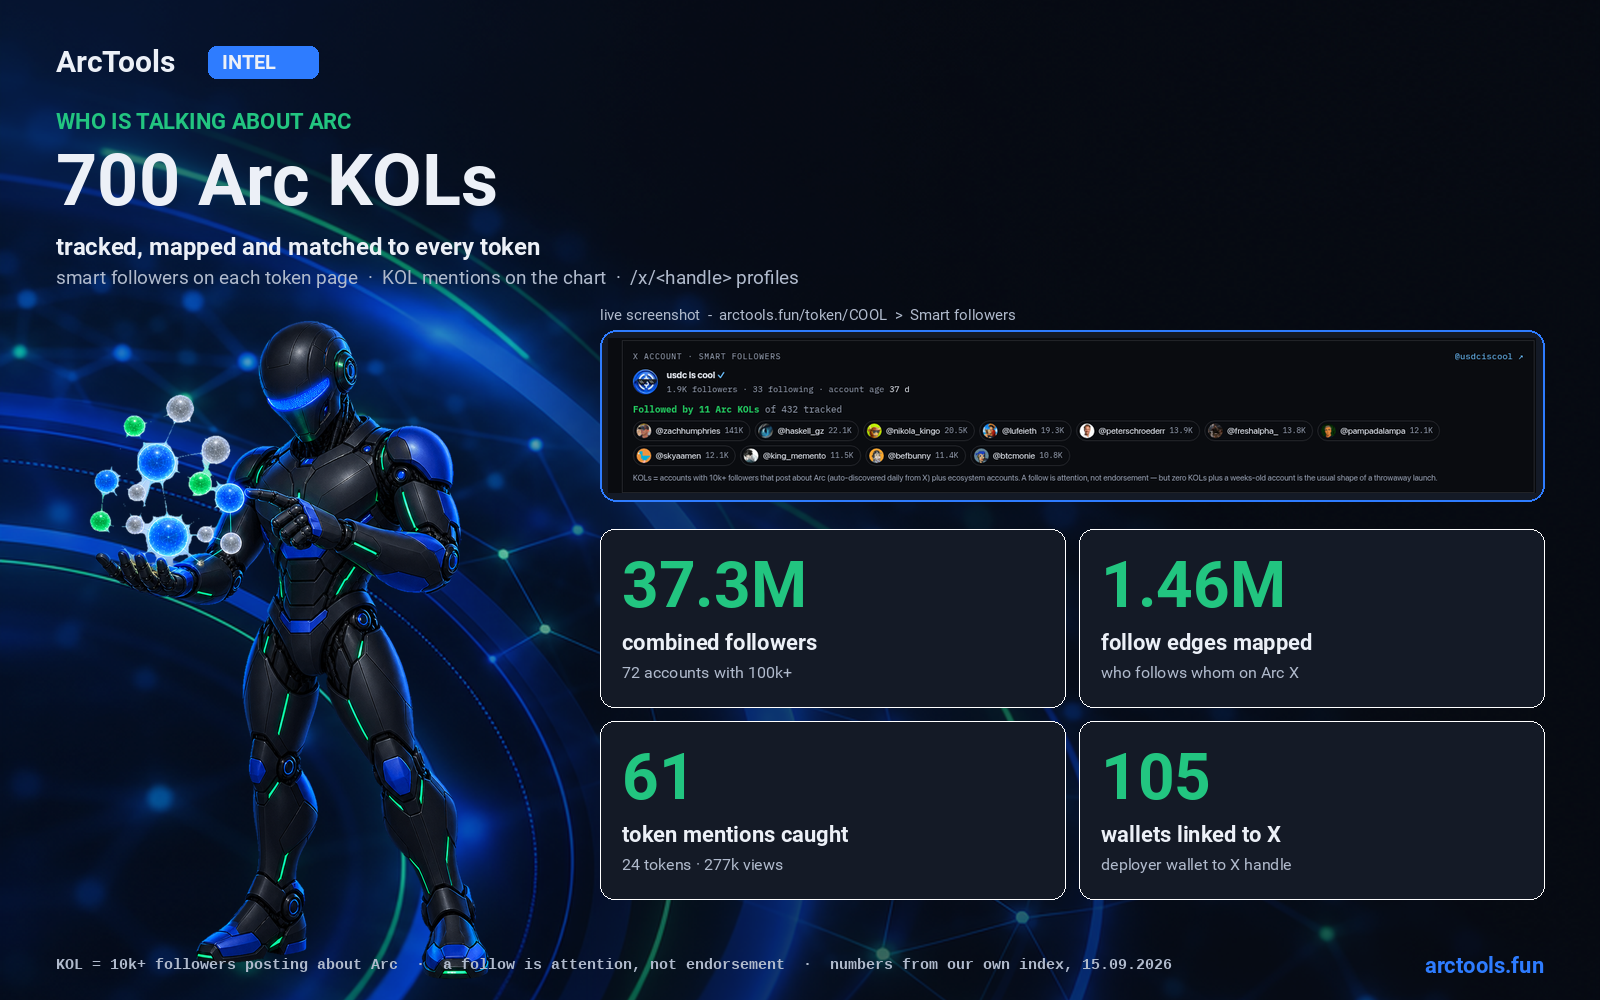
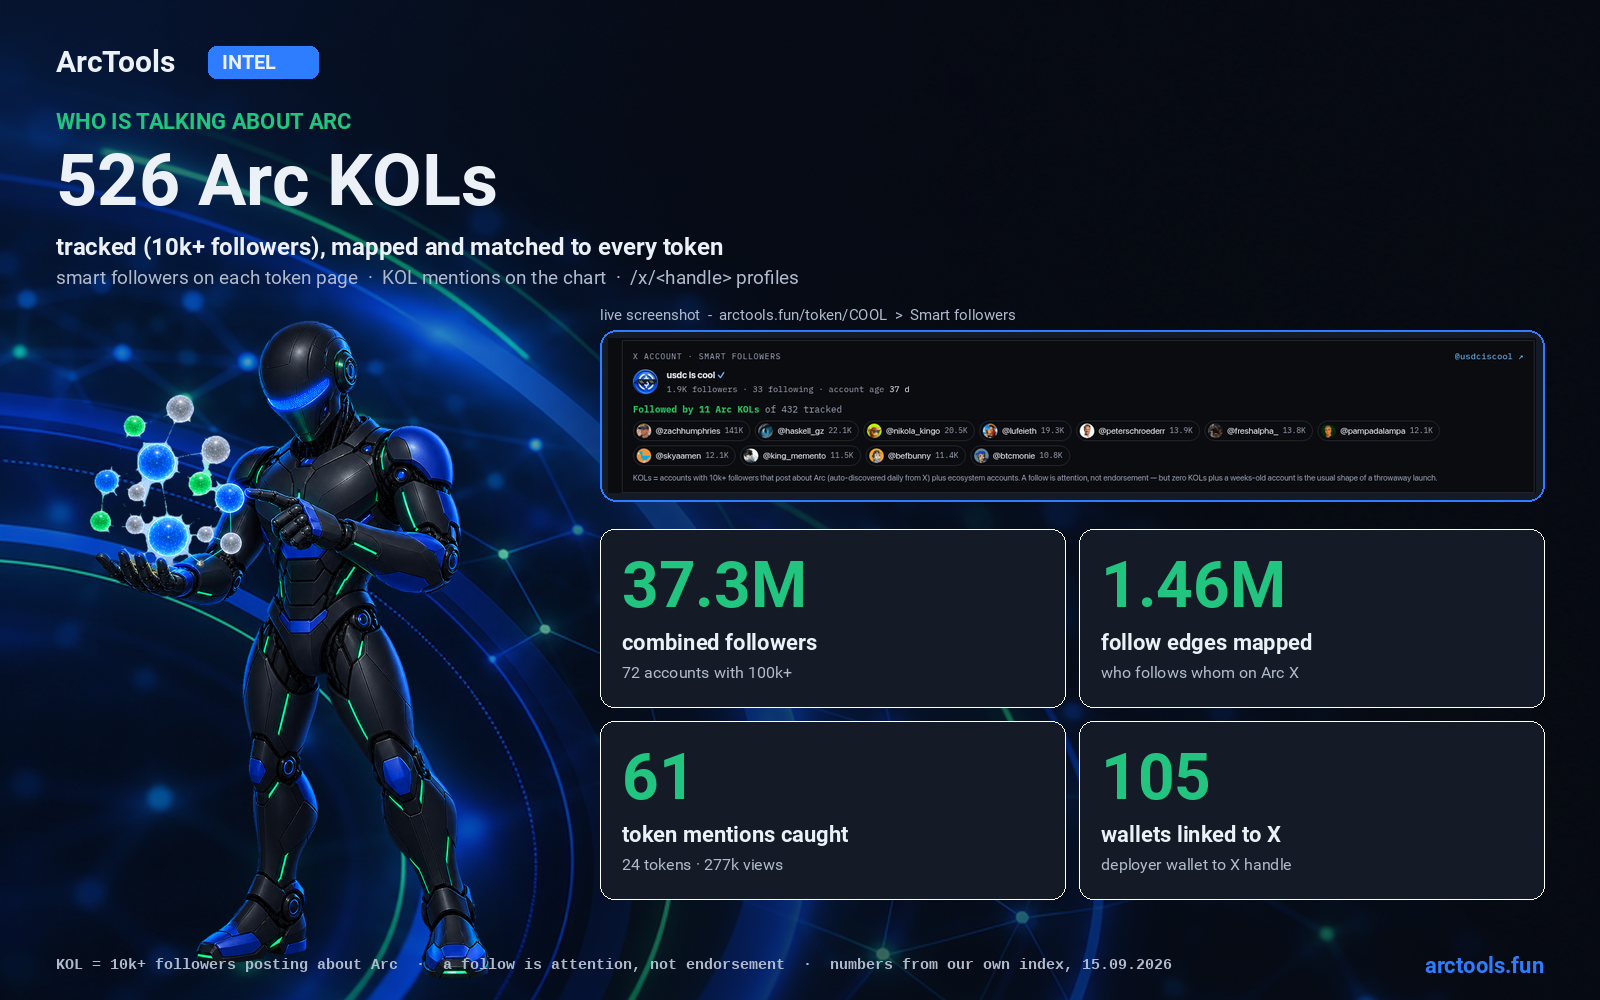
marketing 38: 526 KOLs

Changed region(s): [[0.0938, 0.217, 0.4375, 0.279], [0.0312, 0.155, 0.125, 0.217]]

diff --git a/marketing/compose_38.py b/marketing/compose_38.py
@@ -14,8 +14,8 @@ scrim = Image.new('RGBA', (W, H), (0, 0, 0, 0)); sd = ImageDraw.Draw(scrim); sd.
 bg = Image.alpha_composite(bg, scrim.filter(ImageFilter.GaussianBlur(40))); d = ImageDraw.Draw(bg)
 d.text((56, 44), 'ArcTools', font=f(30), fill=INK); d.rounded_rectangle((208, 46, 318, 78), radius=8, fill=COB); d.text((222, 50), 'INTEL', font=f(20), fill=INK)
 d.text((56, 108), 'WHO IS TALKING ABOUT ARC', font=f(22), fill=GRN)
-d.text((56, 138), '700 Arc KOLs', font=f(72), fill=INK)
-d.text((56, 232), 'tracked, mapped and matched to every token', font=f(24), fill=INK)
+d.text((56, 138), '526 Arc KOLs', font=f(72), fill=INK)
+d.text((56, 232), 'tracked (10k+ followers), mapped and matched to every token', font=f(24), fill=INK)
 d.text((56, 266), 'smart followers on each token page  ·  KOL mentions on the chart  ·  /x/<handle> profiles', font=f(19, R), fill=MUTED)
 # robot (network hologram) left
 robot = Image.open('robot_net.png').convert('RGBA'); LEFT_W = 520

diff --git a/marketing/38-kols-post.md b/marketing/38-kols-post.md
@@ -4,7 +4,7 @@ Attach: `38-kols.png`. No emoji. Link in first reply. Numbers from our own index
 
 ## Post
 
-700 Arc KOLs tracked. 37.3M combined followers, 72 of them above 100k.
+526 Arc KOLs tracked (10k+ followers each, out of 700 Arc X profiles indexed). 37.3M combined followers, 72 of them above 100k.
 
 We map who follows whom on Arc X (1.46M follow edges), catch every tweet that names a token by contract, cashtag or handle, and link deployer wallets to X accounts.
 
